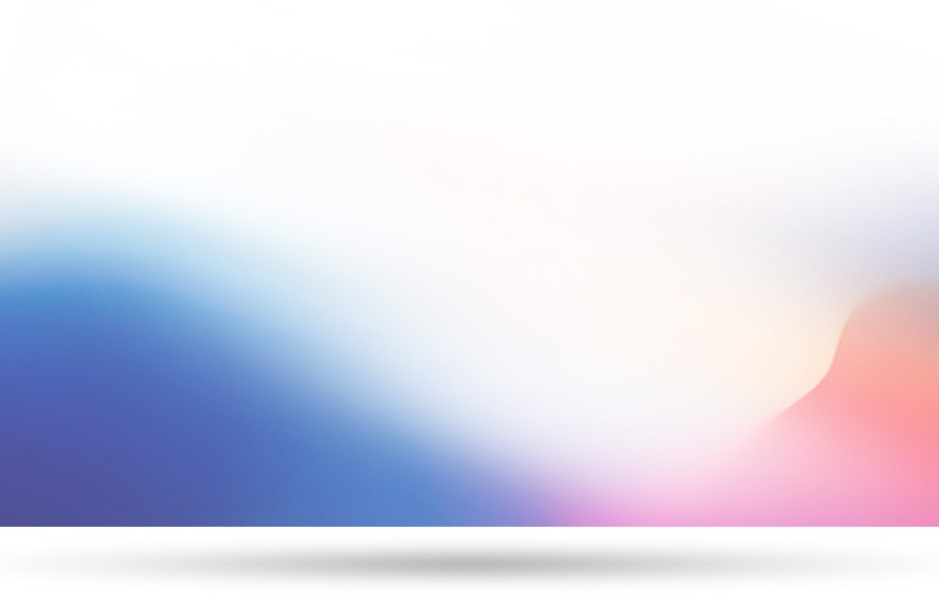
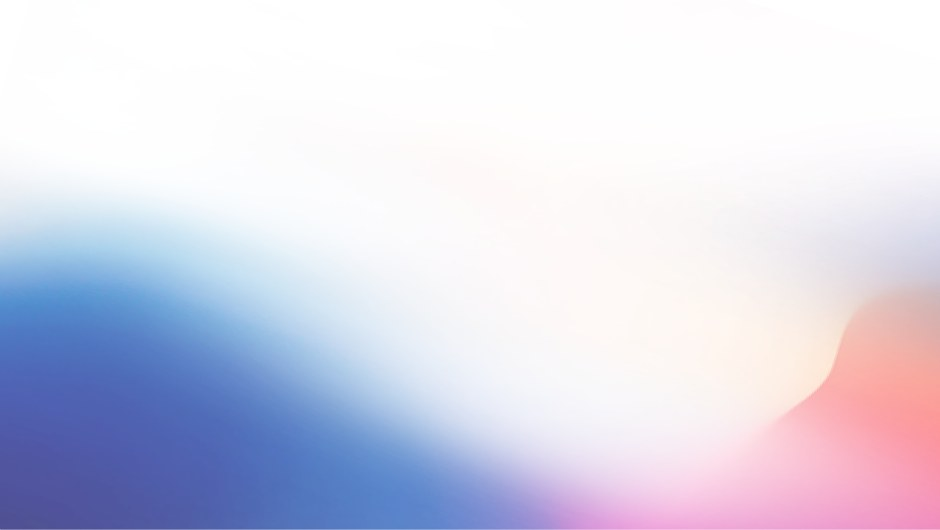
upd: landing

diff --git a/instagram-integration/app/static/landing-page/css/main.css b/instagram-integration/app/static/landing-page/css/main.css
@@ -46,7 +46,7 @@ section {
     width: 171px;
     height: 144px;
     position: absolute;
-    left: 400px; /*first slider position*/
+    left: 20%; /*first slider position*/
     top: 121px;
     z-index: 2;
 }
@@ -59,14 +59,17 @@ section {
 #carousel .slick-arrow.btn-carousel--left {
     margin-left: 66px;
 }
+#carousel .btn-carousel-box {
+    margin-left: 2%;
+}
 #carousel .btn-carousel-box:after {
     left: calc(20% - 20px); /*first slider position*/
     right: initial;
     top: -30px;
 }
-.slider-center .slick-cloned {
-    background: none;
-}
+/*.slider-center .slick-cloned {*/
+    /*background: none;*/
+/*}*/
 .slider-center .slick-slide {
     padding: 120px 32px 32px;
     min-height: 470px;
@@ -76,6 +79,47 @@ section {
     background: none;
 }
 
+.slider-center .slick-slide h3,
+.slider-center .slick-slide p {
+    color: #ffffff;
+}
+.slider-center .slick-slide .number {
+    color: rgba(255, 255, 255, 0.4);
+}
+
+.slider-center .number,
+.slider-center h3,
+.slider-center p {
+    font-weight: normal;
+    font-style: normal;
+    font-stretch: normal;
+    line-height: normal;
+    letter-spacing: normal;
+    text-align: left;
+}
+
+.slider-center .number {
+    font-family: 'SF UI Display Ultralight';
+    font-size: 126px;
+    font-weight: 200;
+    text-align: right;
+    position: absolute;
+    right: 32px;
+    top: 32px;
+}
+
+.slider-center h3 {
+    font-size: 38px;
+    font-weight: 100;
+}
+.slider-center p {
+    font-size: 18px;
+}
+
+.slider-center .slick-slide.slick-slide-prev {
+    background: none;
+}
+.slider-center .slick-slide,
 .slider-center .slick-slide ~ .slick-active {
     background: #8579da;
     background: -moz-linear-gradient(left, #8579da 0%, #85a7e6 100%);
@@ -96,54 +140,21 @@ section {
     background: -ms-linear-gradient(left, #3e23ca 0%, #1cb6ea 100%);
     background: linear-gradient(to right, #3e23ca 0%, #1cb6ea 100%);
     filter: progid:DXImageTransform.Microsoft.gradient( startColorstr='#3e23ca', endColorstr='#1cb6ea', GradientType=1 );
-
-}
-.slider-center .slick-current.slick-active h3,
-.slider-center .slick-current.slick-active p,
-.slider-center .slick-slide ~ .slick-active h3,
-.slider-center .slick-slide ~ .slick-active p {
-    color: #ffffff;
-}
-.slider-center .slick-slide ~ .slick-active .number,
-.slider-center .slick-current.slick-active .number {
-    color: rgba(255, 255, 255, 0.4);
 }
 
-.slider-center .number,
-.slider-center h3,
-.slider-center p {
-    font-weight: normal;
-    font-style: normal;
-    font-stretch: normal;
-    line-height: normal;
-    letter-spacing: normal;
-    text-align: left;
-}
-
-.slider-center .number {
-    font-family: 'SF UI Display Ultralight';
-    font-size: 126px;
-    font-weight: 200;
-    text-align: right;
+.slider-center .slick-slide.slick-slide-prev .number {
     color: var(--sapphire-20);
-    position: absolute;
-    right: 32px;
-    top: 32px;
 }
-
-.slider-center h3 {
-    font-size: 38px;
-    font-weight: 100;
+.slider-center .slick-slide.slick-slide-prev h3 {
     color: var(--blue-with-a-hint-of-purple);
 }
-.slider-center p {
-    font-size: 18px;
+.slider-center .slick-slide.slick-slide-prev p {
     color: var(--slate-grey);
 }
 
-/*video*/
+    /*video*/
 #video {
-    padding-bottom: 0;
+    padding: 0;
 }
 #video .title {
     max-width: 430px;
@@ -161,10 +172,17 @@ section {
 }
 .video-bg {
     background: url("../img/video/video-bg.jpg") no-repeat center;
-    height: 611px;
+    height: 531px;
     width: 943px;
     z-index: 1;
     position: relative;
+    top: -80px;
+}
+.video-bg:after {
+    position: relative;
+    bottom: 130px;
+    margin: 0;
+    width: 100%;
 }
 .video-btn {
     background: url("../img/video/btn-start-video.svg") no-repeat center;
@@ -185,10 +203,6 @@ section {
     display: block;
     position: relative;
     top: -180px;
-}
-section#video {
-    padding-top: 0;
-    margin-top: -80px;
 }
 
 /*interesting*/

diff --git a/instagram-integration/app/static/landing-page/js/index.js b/instagram-integration/app/static/landing-page/js/index.js
@@ -107,32 +107,44 @@
         slidesToShow: 2,
         responsive: [
           {
-            breakpoint: 768,
+            breakpoint: 992,
             settings: {
-              arrows: false,
-              centerMode: true,
               centerPadding: '40px',
               slidesToShow: 2
             }
           },
           {
-            breakpoint: 480,
+            breakpoint: 720,
             settings: {
-              arrows: false,
-              centerMode: true,
-              centerPadding: '40px',
+                centerMode: false,
+              centerPadding: '20px',
               slidesToShow: 1
             }
           }
         ]
       };
 
-    $('.slider-center').slick(slickConf);
+    var prevCls = 'slick-slide-prev';
+    $('.slider-center')
+        .on('init reInit', function(){
+            $(".slick-current", $(this)).prev().addClass('slick-slide-prev');
+      }).on('beforeChange', function(){
+            $(".slick-slide").removeClass(prevCls);
+      }).on('afterChange swipe', function(){
+          $(".slick-current", $(this)).prev().removeClass(prevCls).addClass(prevCls);
+      }).slick(slickConf);
+      if ($(window).width() < 720) {
+          $('.slider-center').slick('slickGoTo', -1).addClass('slider-center--mobile');
+      } else {
+          $('.slider-center').removeClass('slider-center--mobile');
+      }
+
     $('.slider-promo').slick({
         prevArrow: '<div class="btn btn-primary btn-carousel btn-carousel--right"></div>',
         nextArrow: '<div class="btn btn-primary btn-carousel btn-carousel--left flip-it"></div>',
         appendArrows: '#difference .btn-carousel-box'
     });
+
     $('.slider-reviews').slick({
         prevArrow: '<div class="btn btn-primary btn-carousel btn-carousel--right"></div>',
         nextArrow: '<div class="btn btn-primary btn-carousel btn-carousel--left flip-it"></div>',

diff --git a/instagram-integration/app/static/landing-page/css/buttons.css b/instagram-integration/app/static/landing-page/css/buttons.css
@@ -1,6 +1,5 @@
 .btn {
     font-weight: normal;
-    /*text-transform: uppercase;*/
     border: none;
     font-size: 30px;
     border-radius: 300px;
@@ -68,7 +67,7 @@
     width: 80px;
     height: 80px;
     display: block;
-    background: transparent url(../img/buttons/finger-white.svg) no-repeat -10px -24px;
+    background: transparent url("../img/buttons/finger-white.svg") no-repeat -10px -24px;
 }
 
 .button-box---primary:before {
@@ -81,10 +80,11 @@
     position: absolute;
     z-index: 2;
 }
+.video-bg:after,
 .button-box---primary:after {
     content: '';
     display: block;
-    background: url("../img/buttons/shadow1.png") center no-repeat;
+    background: url("../img/buttons/shadow.png") center no-repeat;
     background-size: 100% 50%;
     height: 60px;
     position: absolute;

diff --git a/instagram-integration/app/static/landing.html b/instagram-integration/app/static/landing.html
@@ -71,7 +71,7 @@
         </div>
     </div>
 </header>
-<section id="video" class="">
+<section id="video" class="bg-primary">
     <div class="container">
         <div class="row video-bg m-auto">
             <div class="col-12 column-padding">
